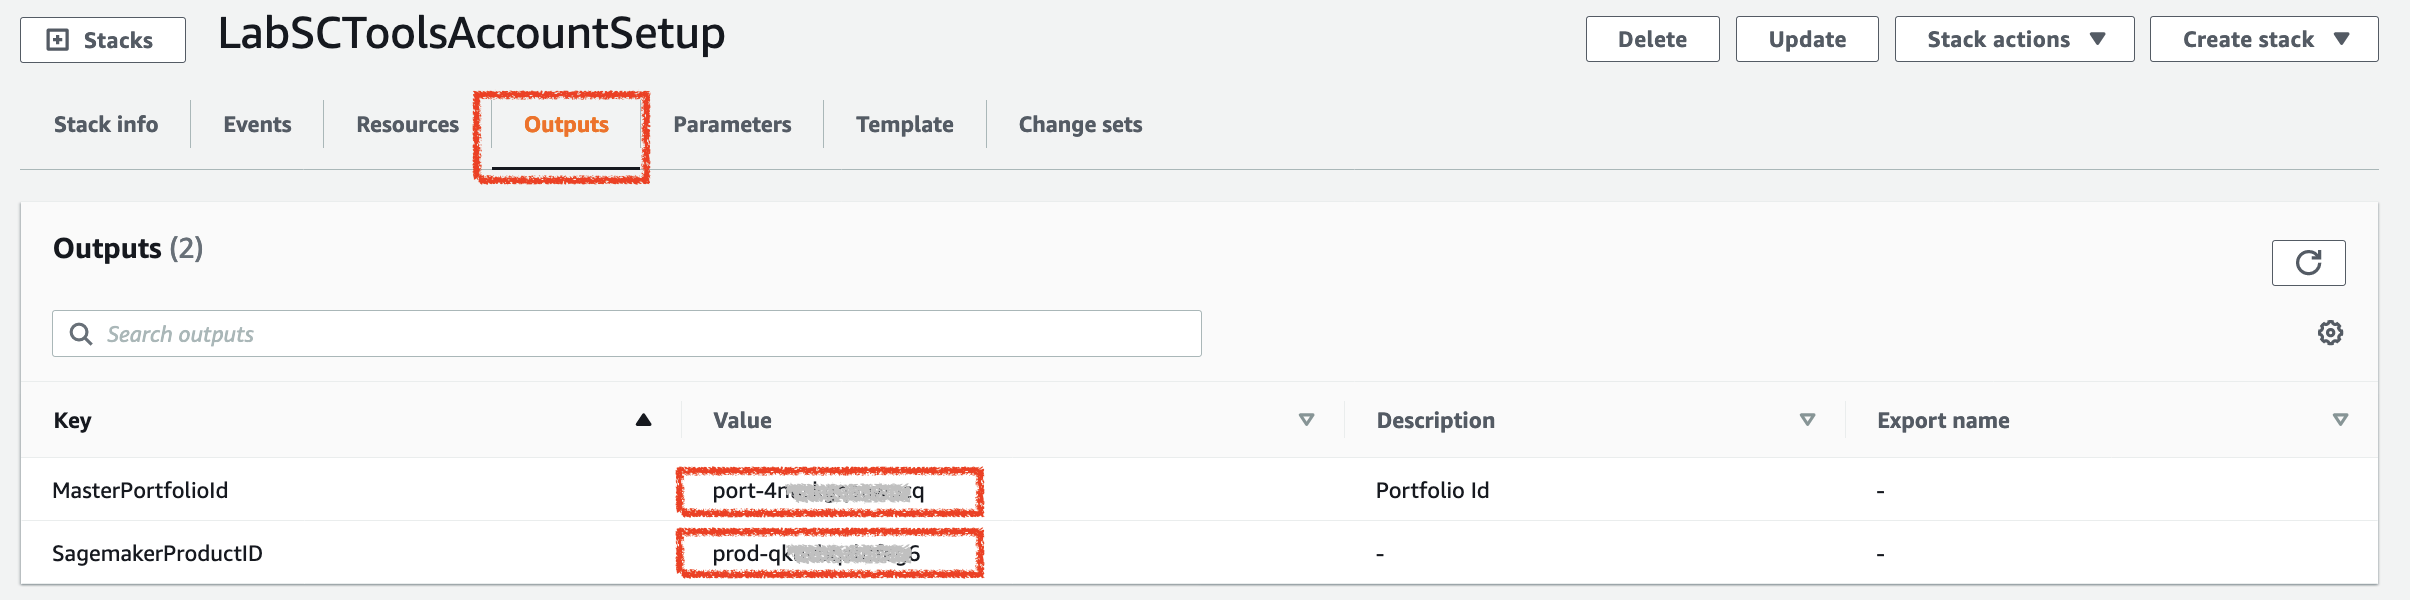
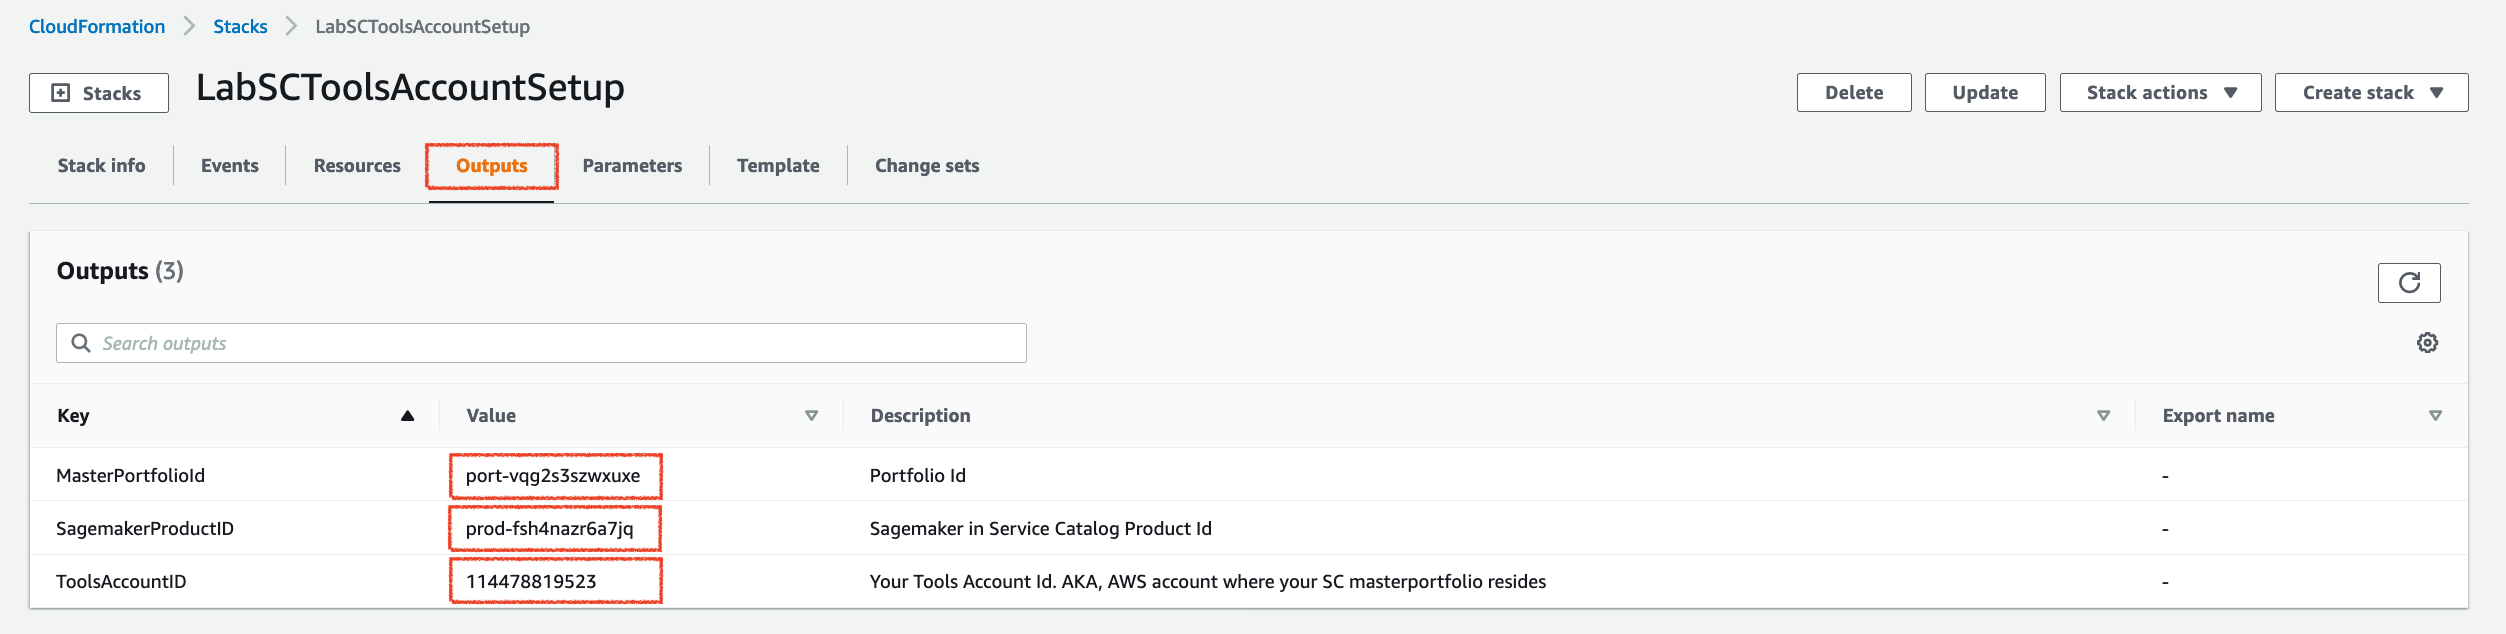
Enhancements
1. Added support to additional SSM Parameters references
2. Updated the instructions as needed

diff --git a/README.md b/README.md
@@ -49,12 +49,17 @@ Make a note the AWS Account IDs for the Tools, Datascience and Stage accounts pr
 
 #### Clone or download this git repo
 1. Clone or download the zip file of this repo.
+```
+git clone https://github.com/sirimuppala/cross-account-mlops.git
+```
 2. If you downloaded the zip, unzip the file.
 
 #### Configure  Tools Account
-1.1. Log in to your assigned **Tools Account** using the  credentials provided by your lab administrator.
+##### 1.1 Log in  to your Tools Account
 
-1.2  Setup ServiceCatalog
+1.1.1 Log in to your assigned **Tools Account** using the  credentials provided by your lab administrator.
+
+##### 1.2  Setup ServiceCatalog
 
 1.2.1 Copy and paste the below link in your web browser of your Tools Account
 https://us-east-2.console.aws.amazon.com/cloudformation#/stacks/new?stackName=LabSCToolsAccountSetup&templateURL=https://marketplace-sa-resources.s3.amazonaws.com/scmlops/prepare_tools_account.yaml
@@ -64,19 +69,19 @@ https://us-east-2.console.aws.amazon.com/cloudformation#/stacks/new?stackName=La
 * c. In **Configure stack options** page, leave the defaults and choose **Next**
 * d. Scroll down **Review LabSCToolsAccountSetup** page to review the selections and choose **Create stack**
 * e. Wait for the stack to deploy resource completely.
-* f. Choose **Outputs** section and note down the values of **MasterPortfolioId** and **SagemakerProductID**. You will use this information in next step.
+* f. Choose **Outputs** section and note down the values of `MasterPortfolioId`,  `SagemakerProductID`, and `ToolsAccountID` . You will use this information in the next step.
 ![Outputs Screenshot](images/ToolsAccount_Outputs.png)
 
 1.2.2 Go to Service Catalog Console - https://us-east-2.console.aws.amazon.com/servicecatalog/ and choose **Portfolios** and **Data Scientists - Sample Portfolio**
 
-1.2.3 Choose Actions --> **Share(1)** to list the accounts the portfolio is shared with. Enter the *SpokeAccountID* that you provided as input parameter.
+1.2.3 Choose **Actions** --> **Share(1)** to list the accounts the portfolio is shared with. PS: No action needed, just verify the portfolio is shared with *SpokeAccountID*.
 
-1.3  Setup MLOps Pipeline
+##### 1.3  Setup MLOps Pipeline
 
 1.3.1 Create a CloudFormation stack to prepare deploy lambda functions to be used by MLOps pipeline
 
-* a. In **Create stack** page, choose "Upload a template file", Choose file : tools-account/pipeline/PrepPipeline.yml; Click **Next**
-* b. In **Specify stack details** page, type in "MLOpsPipelinePrep" for Stack Name.
+* a. In **Create stack** page, choose **Upload a template file**, Choose file : `tools-account/pipeline/PrepPipeline.yml`; Click **Next**
+* b. In **Specify stack details** page, type in `MLOpsPipelinePrep` for Stack Name.
 * c. In **Configure stack options** page, leave the defaults and choose **Next**
 * d. Scroll down **Review** page to review the selections and choose **Create stack**
 
@@ -86,8 +91,8 @@ https://us-east-2.console.aws.amazon.com/cloudformation#/stacks/new?stackName=La
 * c. Upload tools-account/lambda-code/MLOps-BIA-EvaluateModel.py.zip
 
 1.3.3 Create a CloudFormation stack to setup the MLOps Code Pipeline
-* a. In **Create stack** page, choose "Upload a template file", Choose file : tools-account/pipeline/BuildPipeline.yml; Click **Next**
-* b. In **Specify stack details** page, type in "MLOpsPipeline" for Stack Name.
+* a. In **Create stack** page, choose **Upload a template file**, Choose file : `tools-account/pipeline/BuildPipeline.yml`; Click **Next**
+* b. In **Specify stack details** page, type in `MLOpsPipeline` for Stack Name.
 * c. In **Configure stack options** page, type in 'DataScienceAccountID', 'StageAccountID', an UniqueID  and click **Next**
 * d. Scroll down **Review** page to review the selections, select checkbox to give permissions to create IAM resources and click  **Create stack**
  
@@ -103,7 +108,7 @@ https://us-east-2.console.aws.amazon.com/cloudformation#/stacks/new?stackName=La
 https://us-east-2.console.aws.amazon.com/cloudformation#/stacks/new?stackName=LabDSAccountSCSetup&templateURL=https://marketplace-sa-resources.s3.amazonaws.com/scmlops/prepare_datascientist_account.yaml
 
 * a. In **Create stack** page, choose **Next**
-* b. Enter the **MasterPortfolioId** and **SagemakerProductID** you noted in Step 1.2.1(f) and choose **Next**.
+* b. Enter the **MasterPortfolioId**, **SagemakerProductID** and **ToolsAccountID** you noted in Step 1.2.1(f) and choose **Next**.
 * c. In **Configure stack options** page, leave the defaults and choose **Next**
 * d. Scroll down **Review LabDSAccountSCSetup** page and select **I acknowledge that AWS CloudFormation might create IAM resources** option and choose **Create stack**
 * f. Check in the **Outputs** tab, and note down the **SwitchRoleLink** role. You will use the URL link value to switch role as DataScientist in Step-2 below.
@@ -174,9 +179,8 @@ Open the "xgboost_abalone.ipynb", read the narration and execute the cells.
 #### Walkthrough  of the Codepipeline
 
 
-
-
 ## Conclusion
+
 
 ## Clean Up (Optional)
 
@@ -194,18 +198,4 @@ Open the "xgboost_abalone.ipynb", read the narration and execute the cells.
     5.1 Wait till the MLOpsPipeline is deleted.
     5.2 Delete the CloudFormation Stack with name "MLOpsPipelinePrep" 
 
----
-### !!!!!! WorkLog : Will be removed later
 
-2.4 Launch CloudFormation Stack
-
-aws cloudformation deploy --stack-name pre-reqs  --template-file ToolsAcct/pre-reqs.yaml --profile mlops-tools-user 
-
-3. Prepare the Data Science account.Datascience / Dev Account
-(Note : Resources below will be created by the ServiceCatalog in the workshop.  For
-now using a cloudformation template)
-
-3.1 Launch the cloudformation template to launch these resources
-S3 bucket; Name - datascience; folders - data, models/development, models/release
-
-SageMaker notebook
